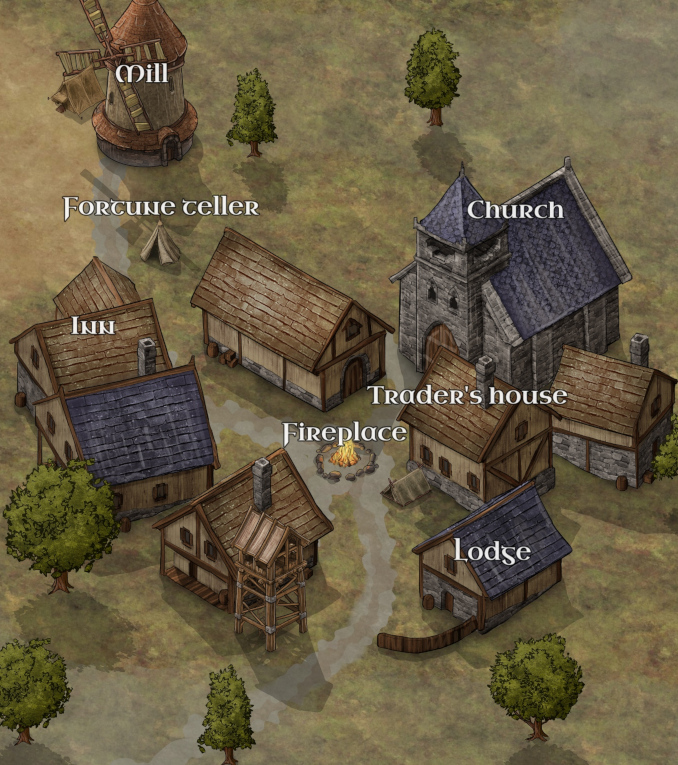
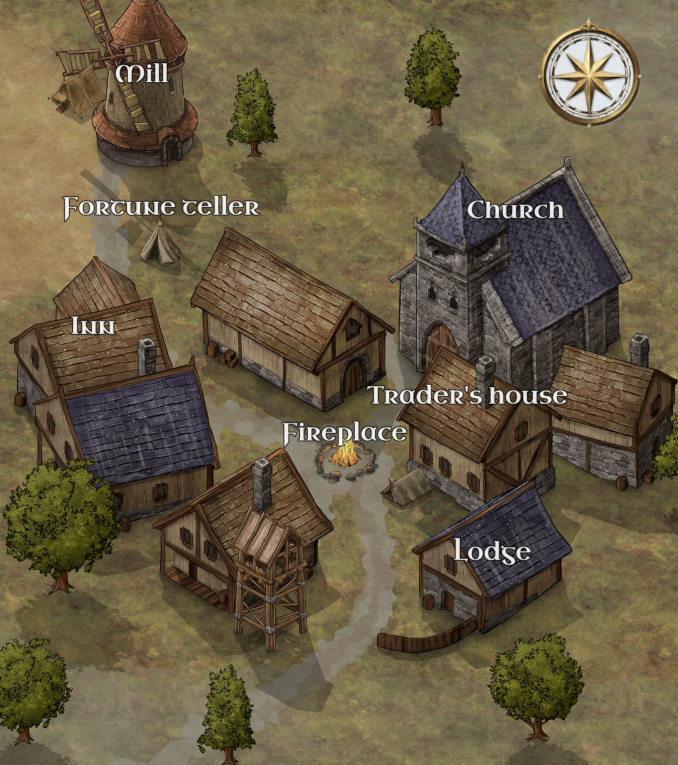
gold and damage added, assets are waiting

Changed region(s): [[0.7743, 0.0301, 0.9602, 0.1804]]

diff --git a/styles/game_main_menu_style.css b/styles/game_main_menu_style.css
@@ -10,13 +10,14 @@
     box-sizing: border-box;
     font-family: baseFont;
     color: rgb(224, 224, 224);
+    outline: 1px solid black;
 }
 
 body {
     background: url(../media/eklesa.jpg) no-repeat center center fixed;
     backdrop-filter: blur(5px);
     display: grid;
-    grid-template-columns: 3em max-content auto auto 3em;
+    grid-template-columns: 0.5em max-content auto auto 0.5em;
     grid-template-rows: auto auto auto auto;
     margin: 0px;
     height: 100vh;
@@ -41,7 +42,7 @@ header {
 }
 
 /*************************************************************************/
-/*Frames and backgrounds*/
+/*Frames, buttons*/
 .frame {
     border: 1px solid rgba(51, 47, 44, 0.651);
     backdrop-filter: blur(4px);
@@ -53,6 +54,27 @@ header {
 .portrait-frame {
     border: 0.5em double rgba(54, 34, 19, 0.651);
 }
+
+.option-buttons-box {
+    display: flex;
+    flex-direction: row;
+    gap: 30px;
+    margin-top: auto;
+}
+
+.option-buttons-box > button {
+    font-size: 1.5em;
+    border-radius: 1em;
+    border-color: rgba(51, 47, 44, 0.534);
+    padding: 0.5em;
+    background-image: linear-gradient(180deg, #592a7e, #3d7fb0);
+    background-size: 100%;
+    background-repeat: repeat;
+    background-clip: text;
+}
+
+
+
 
 /*************************************************************************/
 /*Scenario and attributes box*/
@@ -90,26 +112,7 @@ header {
     height: 10em;
 }
 
-.option-buttons-box {
-    display: flex;
-    flex-direction: row;
-    gap: 30px;
-}
 
-.option-buttons-box > button {
-    font-size: 1.5em;
-    border-radius: 1em;
-    border-color: rgba(51, 47, 44, 0.534);
-    padding: 0.5em;
-    background-image: linear-gradient(180deg, #592a7e, #3d7fb0);
-    background-size: 100%;
-    background-repeat: repeat;
-    background-clip: text;
-}
-
-#continue-button {
-    display: none;
-}
 
 /*************************************************************************/
 /*Map*/
@@ -150,24 +153,16 @@ header {
     grid-column-end: 5 !important;
     grid-row-start: 3 !important;
     grid-row-end: 4 !important;
-    width: 100%;
-    height: 100%;
-    display: inherit;
+
+    display: flex;
+    flex-direction: row;
 }
 
-
-/*body::-webkit-scrollbar {
-    width: 0.25rem;
+.gold-box {
+    display: flex;
+    flex-direction: column;
 }
 
-body::-webkit-scrollbar-track {
-    background-color: rgb(183, 183, 183);
-}
-
-body::-webkit-scrollbar-thumb {
-    background-color: rgb(0, 0, 0);
-}
-*/
 
 /*************************************************************************/
 /*Attributes*/
@@ -178,6 +173,7 @@ body::-webkit-scrollbar-thumb {
     display: flex;
     flex-direction: column;
     align-items: center;
+    background: rgba(177, 177, 177, 0.534);
 }
 
 .character-attributes>h1 {
@@ -194,12 +190,17 @@ body::-webkit-scrollbar-thumb {
 }
 
 .character-attributes>h2 {
-    font-size: 1em;
+    font-size: 1.5em;
 }
 
-.character-attributes>p {
-    font-size: 1.5em;
+.character-attributes>div {
+    font-size: 1em;
     font-stretch: narrower;
+}
+
+.minmax-damage-box {
+    display: flex;
+    flex-direction: row;
 }
 
 .character-portrait {
@@ -222,3 +223,16 @@ footer {
     margin-top: auto;
     text-align: center;
 }
+
+/*body::-webkit-scrollbar {
+    width: 0.25rem;
+}
+
+body::-webkit-scrollbar-track {
+    background-color: rgb(183, 183, 183);
+}
+
+body::-webkit-scrollbar-thumb {
+    background-color: rgb(0, 0, 0);
+}
+*/

diff --git a/game_main_menu.html b/game_main_menu.html
@@ -27,12 +27,12 @@
     <div class="scen-attr-box">
         <div class="character-scenario-box frame">
             <div class="character-scenario-description">
-                <h1 class="" data-scenario-name></h1>
-                <p class="" data-scenario-description> </p>
-                <div class="  option-buttons-box">
+                <h1 data-scenario-name></h1>
+                <p  data-scenario-description> </p>
+                <div class="option-buttons-box">
                     <button data-option-1></button>
                     <button data-option-2></button>
-                    <button id="continue-button">Continue</button>
+                    <button data-continue class="hide">Continue</button>
                 </div>
             </div>
         </div>
@@ -42,17 +42,22 @@
             <img data-portrait-female class="hide character-portrait portrait-frame" src="./media/female_portrait.png" alt="Female player">
             <img data-portrait-male class="hide character-portrait portrait-frame" src="./media/male_portrait.png" alt="Male portrait">
             <h2>Health:</h2>
-            <p data-health>10</p>
+            <div data-health>10</div>
             <h2>Experience point:</h2>
-            <p data-experience>0</p>
+            <div data-experience>0</div>
             <h2>Level:</h2>
-            <p data-level>1</p>
+            <div data-level>1</div>
+            <h2>Damage:</h2>
+            <div class="minmax-damage-box">
+                <div>0</div> - <div>2</div></div>
         </div>
     </div>
 
     <div class="character-inventory frame">
-
-        <h1>Inventory</h1>
+        <div class="gold-box">
+            <img src="./media/assets/coin.png" alt="Gold coin">
+            <p data-gold>100</p>
+        </div>
 
     </div>
 
@@ -60,8 +65,8 @@
 
     <footer>
 
-        <p>Made by <a href="https://github.com/Annie1790" target="_blank"> Annie1790 </a></p>
-        <p> <a href="https://www.figma.com/file/C5xZXIIwOHuONyVz1M5cGO/Rune-Legacy-Ideas?t=yOFuzhnUC6ge4Xki-0" target="_blank">Figma ideas</a></p>
+        <div>Made by <a href="https://github.com/Annie1790" target="_blank"> Annie1790 </a></div>
+        <div> <a href="https://www.figma.com/file/C5xZXIIwOHuONyVz1M5cGO/Rune-Legacy-Ideas?t=yOFuzhnUC6ge4Xki-0" target="_blank">Figma ideas</a></div>
 
     </footer>
 

diff --git a/modules/locations.js b/modules/locations.js
@@ -120,8 +120,128 @@ const mill =
   tooltipText: "The mill"
 };
 
+const fortuneTeller =
+{
+  topLeft: {
+    x: 62,
+    y: 196,
+  },
+  bottomRight: {
+    x: 261,
+    y: 214,
+  },
+  action: function () {
+    console.log("Fortune Teller");
+  },
+
+  tooltipText: "Fortune teller"
+};
+
+const inn =
+{
+  topLeft: {
+    x: 71,
+    y: 315,
+  },
+  bottomRight: {
+    x: 118,
+    y: 337,
+  },
+  action: function () {
+    console.log("Inn");
+  },
+
+  tooltipText: "The inn"
+};
+
+const church =
+{
+  topLeft: {
+    x: 468,
+    y: 200,
+  },
+  bottomRight: {
+    x: 567,
+    y: 220,
+  },
+  action: function () {
+    console.log("The church");
+  },
+
+  tooltipText: "The church"
+};
+
+const fireplace =
+{
+  topLeft: {
+    x: 284,
+    y: 423,
+  },
+  bottomRight: {
+    x: 410,
+    y: 444,
+  },
+  action: function () {
+    console.log("Fireplace");
+  },
+
+  tooltipText: "A place to sleep and heal yourself. It's free to stay, but beware of thiefs!"
+};
+
+const trader =
+{
+  topLeft: {
+    x: 367,
+    y: 384,
+  },
+  bottomRight: {
+    x: 570,
+    y: 408,
+  },
+  action: function () {
+    console.log("The trader's house");
+  },
+
+  tooltipText: "The trader's house"
+};
+
+const lodge =
+{
+  topLeft: {
+    x: 455,
+    y: 537,
+  },
+  bottomRight: {
+    x: 533,
+    y: 564,
+  },
+  action: function () {
+    console.log("The lodge");
+  },
+
+  tooltipText: "For some gold, you can stay for a night to heal your wounds."
+};
+
+const compass =
+{
+  topLeft: {
+    x: 535,
+    y: 23,
+  },
+  bottomRight: {
+    x: 640,
+    y: 128,
+  },
+  action: function () {
+    console.log("compass");
+    ui.eklesaMap.style.display = "none";
+    ui.worldMap.style.display = "block";
+  },
+
+  tooltipText: "Back to world map"
+};
 
 export const locationsArray = [canalOutpost, Eklesa, magicForest, Onavale, beastField, Tont];
 
-export const eklesaArray = [mill]
+export const eklesaArray = [mill, fortuneTeller, inn, church, fireplace, trader, lodge, compass]
 

diff --git a/modules/ui.js b/modules/ui.js
@@ -4,7 +4,7 @@ const ui = {
     scenarioDescription: document.querySelector("[data-scenario-description]"),
     option1: document.querySelector("[data-option-1]"),
     option2: document.querySelector("[data-option-2]"),
-    continueButton: document.querySelector("#continue-button"),
+    continueButton: document.querySelector("[data-continue]"),
     characterName: document.querySelector("[data-character-name]"),
     characterHealth: document.querySelector("[data-health]"),
     characterExperience: document.querySelector("[data-experience]"),
@@ -14,5 +14,6 @@ const ui = {
     tooltipField: document.querySelector("[data-tooltip-field]"),
     malePortrait: document.querySelector("[data-portrait-male]"),
     femalePortrait: document.querySelector("[data-portrait-female]"),
+    gold: document.querySelector("[data-gold]")
 }
 export default ui;

diff --git a/modules/player.js b/modules/player.js
@@ -1,11 +1,17 @@
 import ui from "./ui.js"
 
+
+/* to check if player has the correct values: 
+browser console,
+const player = await import("./modules/player.js"),
+player.default */
 class Character {
     constructor() {
       this.name = new URLSearchParams(window.location.search).get("name");
       this.health = +ui.characterHealth.innerHTML;
       this.experience = +ui.characterExperience.innerHTML;
       this.level = +ui.characterLevel.innerHTML;
+      this.gold = +ui.gold.innerHTML;
     }
   
     heal(amount) {
@@ -74,5 +80,4 @@ class Character {
   }
 
 const player1 = new Character();
-
 export default player1;

diff --git a/game_main_menu_script.js b/game_main_menu_script.js
@@ -1,4 +1,5 @@
 import ui from "./modules/ui.js";
+
 import { selectEvent, actionButtonClickedforOption1, actionButtonClickedforOption2} from "./modules/scenario.js";
 import {locationsArray, eklesaArray} from "./modules/locations.js";
 
